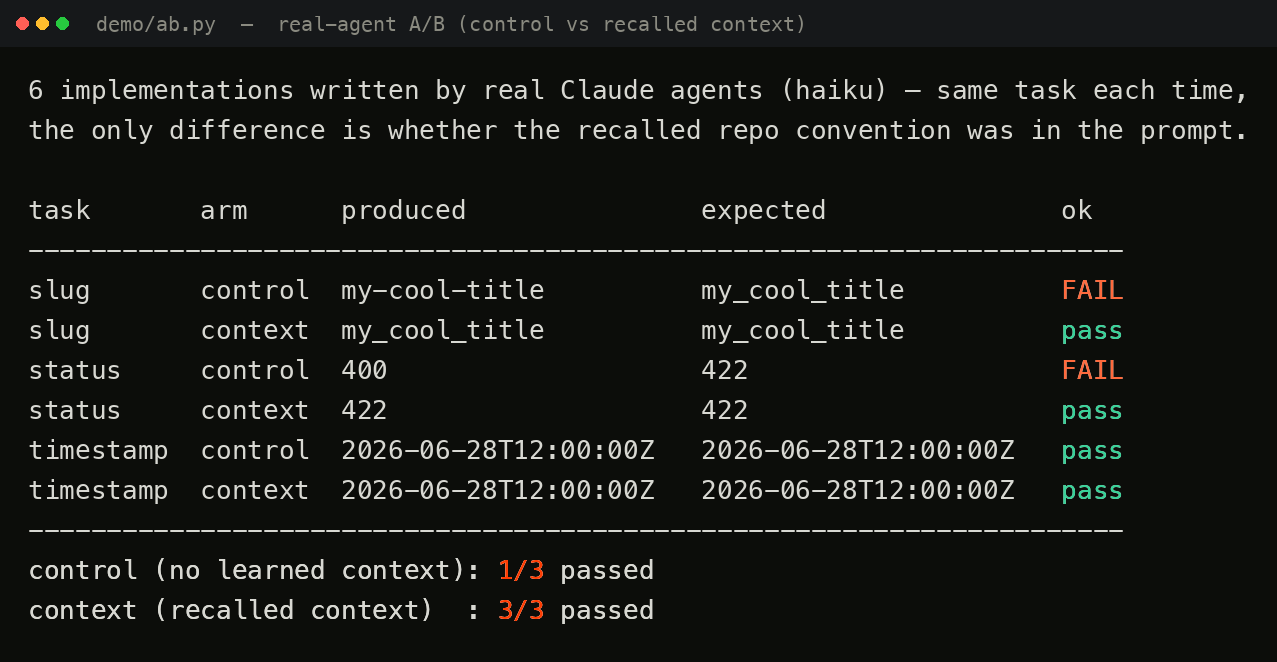
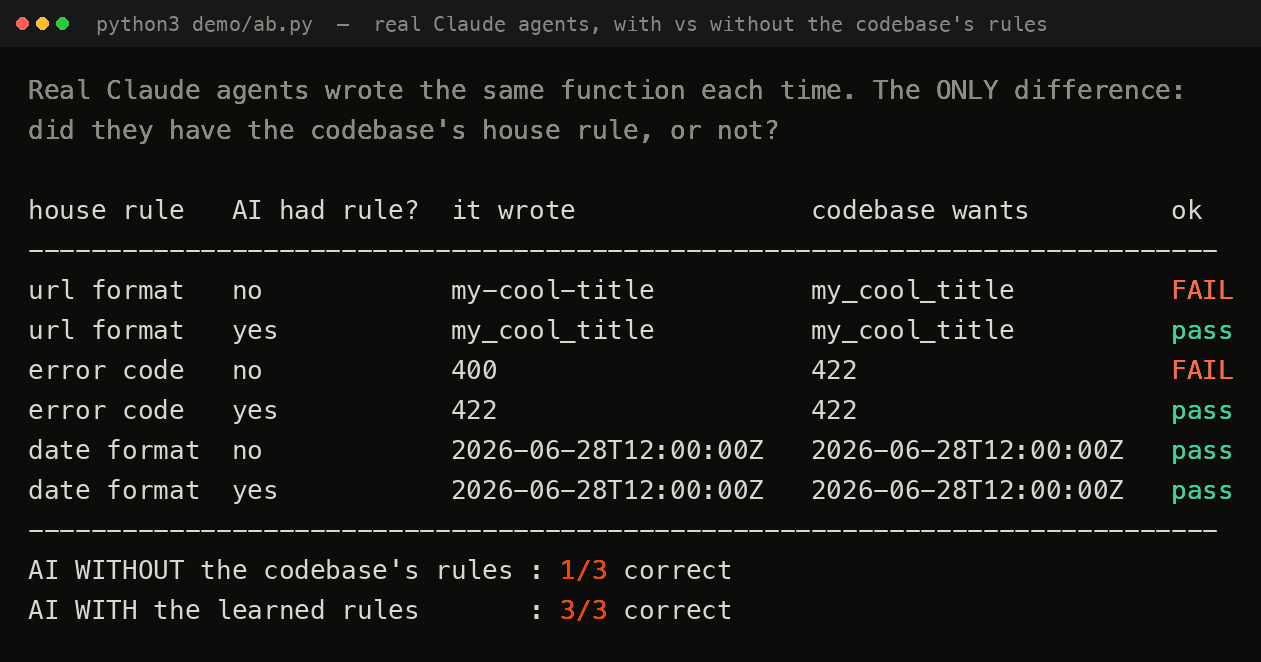
demo: make the A/B screenshot self-explanatory (plain words, no jargon)
ab.py now prints 'house rule / AI had rule? no|yes / it wrote / codebase wants'
with labels 'url format, error code, date format' instead of slug/status/control/
context. A viewer understands it without knowing what a slug or 422 is.

diff --git a/demo/ab.py b/demo/ab.py
@@ -19,7 +19,8 @@ TASKS = {
     "status": (lambda m: m.validation_error_status(), 422),
     "time": (lambda m: m.iso_utc(datetime.datetime(2026, 6, 28, 12, 0, 0, tzinfo=UTC)), "2026-06-28T12:00:00Z"),
 }
-LABEL = {"slug": "slug", "status": "status", "time": "timestamp"}
+# human-readable names so the output reads without dev jargon
+LABEL = {"slug": "url format", "status": "error code", "time": "date format"}
 
 
 def _load(path: str):
@@ -30,10 +31,10 @@ def _load(path: str):
 
 
 def main() -> int:
-    print("6 implementations written by real Claude agents (haiku) — same task each time,")
-    print("the only difference is whether the recalled repo convention was in the prompt.\n")
-    print(f"{'task':10} {'arm':8} {'produced':22} {'expected':22} ok")
-    print("-" * 70)
+    print("Real Claude agents wrote the same function each time. The ONLY difference:")
+    print("did they have the codebase's house rule, or not?\n")
+    print(f"{'house rule':12} {'AI had rule?':13} {'it wrote':22} {'codebase wants':22} ok")
+    print("-" * 76)
     score = {"control": 0, "context": 0}
     for task, (call, expected) in TASKS.items():
         for arm, fname in (("control", f"ctl_{task}.py"), ("context", f"trt_{task}.py")):
@@ -43,10 +44,11 @@ def main() -> int:
             except Exception as e:  # noqa: BLE001 — report any failure as a fail
                 got, ok = f"ERROR {e}", False
             score[arm] += ok
-            print(f"{LABEL[task]:10} {arm:8} {str(got)[:22]:22} {str(expected)[:22]:22} {'pass' if ok else 'FAIL'}")
-    print("-" * 70)
-    print(f"control (no learned context): {score['control']}/3 passed")
-    print(f"context (recalled context)  : {score['context']}/3 passed")
+            had = "no" if arm == "control" else "yes"
+            print(f"{LABEL[task]:12} {had:13} {str(got)[:22]:22} {str(expected)[:22]:22} {'pass' if ok else 'FAIL'}")
+    print("-" * 76)
+    print(f"AI WITHOUT the codebase's rules : {score['control']}/3 correct")
+    print(f"AI WITH the learned rules       : {score['context']}/3 correct")
     return 0
 
 